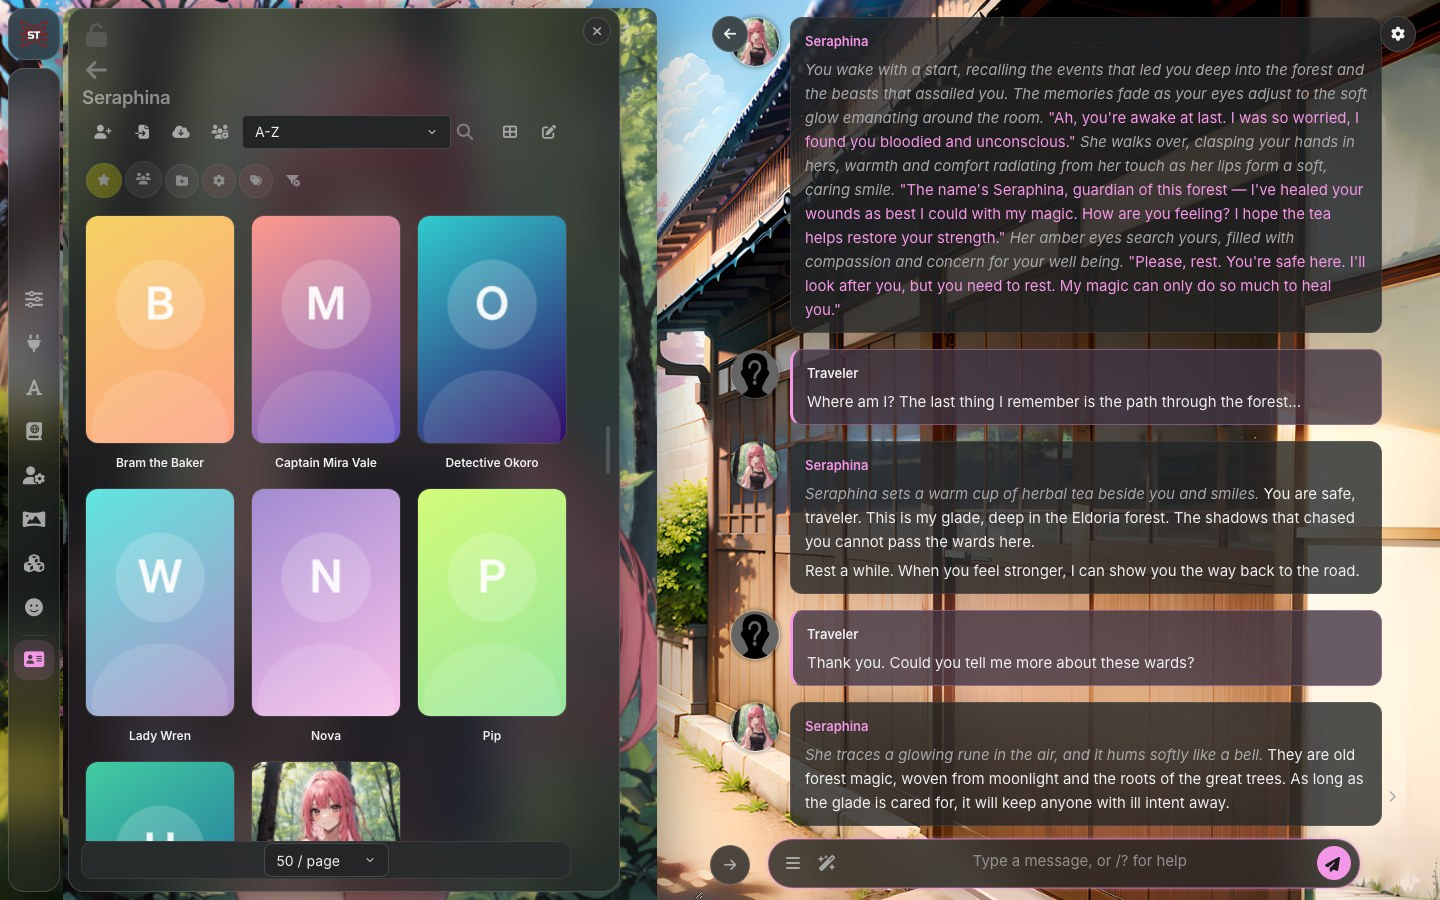
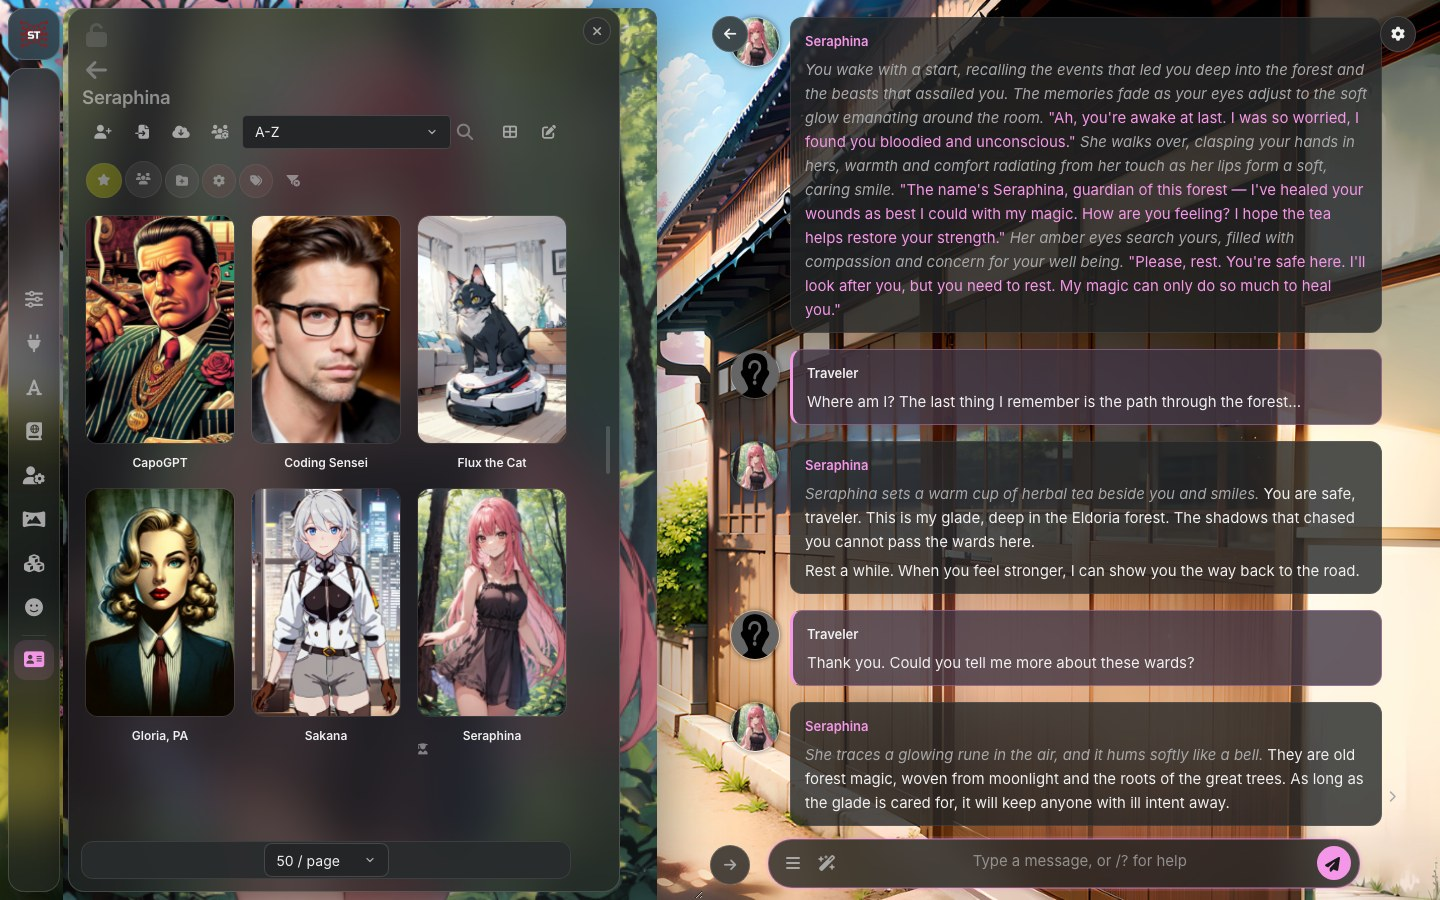
README: real character art from SillyTavern's official content, and phone screenshots

Changed region(s): [[0.0312, 0.2178, 0.4062, 0.9333]]

diff --git a/README.md b/README.md
@@ -46,11 +46,21 @@ or drag.
 
 ### Menus
 
-SillyTavern's menus open as frosted side sheets beside the menu bar, and each one remembers
+SillyTavern's menus open as frosted acrylic side sheets beside the menu bar, like the Tavern window, and each one remembers
 its width. The character list shows portrait cards in grid view, and every avatar is
 pre-scaled to its on-screen size so it stays sharp.
 
 ![Character management menu](.github/characters.jpg)
+
+### Phones
+
+On phones the menu bar is a single frosted row across the top that clears the notch, with
+the open menu's icon highlighted. Menus open full width beneath it, the Tavern window fits
+the screen with two cards across, and nothing runs off the side.
+
+| Home | Chat | Character menu |
+| --- | --- | --- |
+| ![Tavern home on a phone](.github/mobile-home.jpg) | ![Chat on a phone](.github/mobile-chat.jpg) | ![Character menu on a phone](.github/mobile-characters.jpg) |
 
 Also: switch toggles, modern sliders and fields, popover menus, focus rings and readable
 contrast throughout; readable find-in-page highlights; and dragging an image already on the
